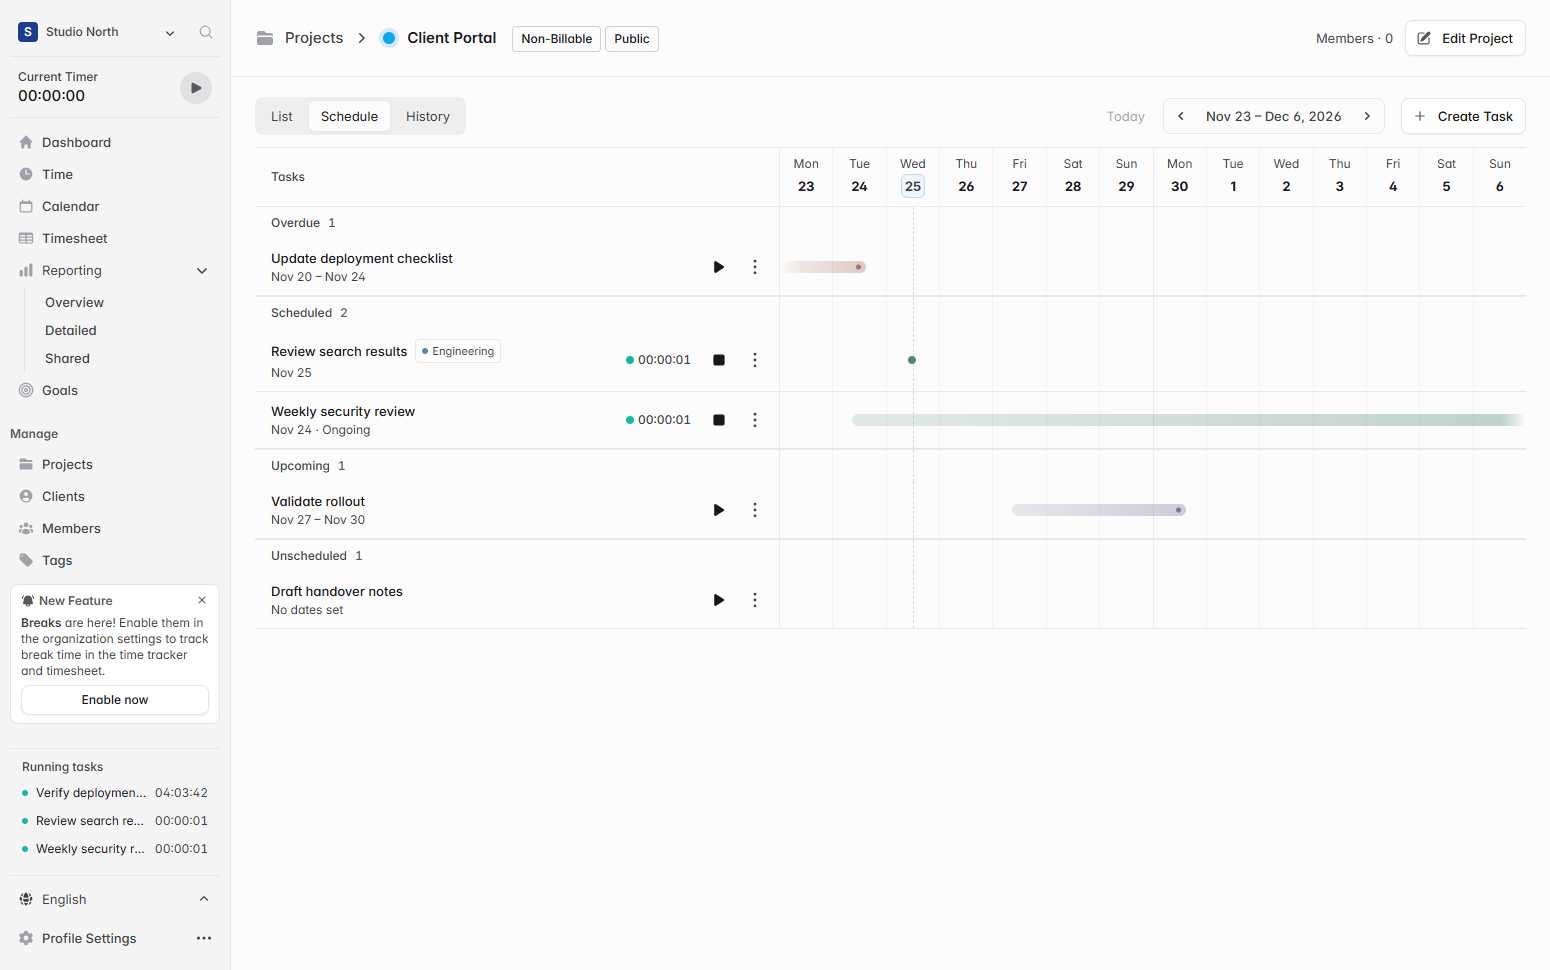
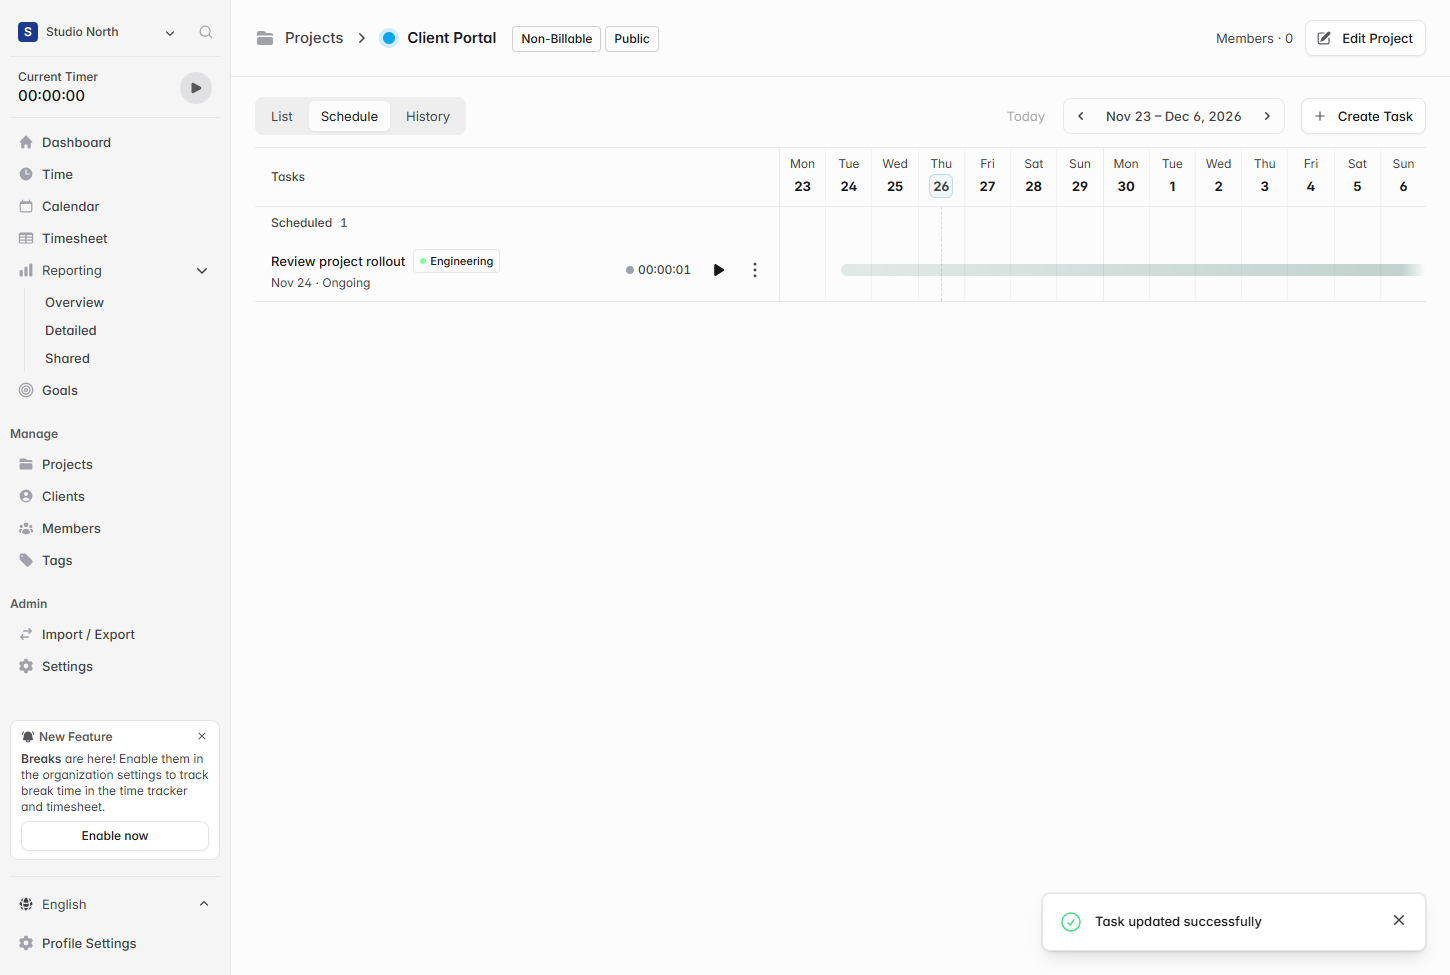
Refresh feature screenshots and PR description

diff --git a/README.md b/README.md
@@ -1,23 +1,28 @@
-# Refine the project schedule and task date controls
+# Refine the project schedule, task dates, and sidebar
 
 ## Why
 
-The project schedule split frequently used controls across two rows and repeated equivalent dates. Empty timer cells added visual noise, and the date picker used a browser checkbox to switch between two scheduling modes. The sidebar also placed running tasks too close to account controls.
+Project Schedule spread its controls across multiple rows, and the task form combined the two scheduling dates in a single field. Pale category colors made some labels hard to read. Running timers and account settings also needed clearer separation.
 
 ## Changes
 
-- Put the project view selector, date navigation, and Create Task in a compact toolbar. Show dates and task categories beside task names, and display elapsed time only for started timer sessions in Schedule.
-- Present Date range and Ongoing as explicit modes in the same date picker. Show a single date when the start and due dates coincide.
-- Give running tasks and account settings separate sidebar sections. Keep Profile Settings as a direct link and provide logout through the account menu.
+- Place the view selector, date navigation, and Create Task on one toolbar. Show compact schedule dates and place elapsed time beside task controls.
+- Give Start date and Due date their own calendar buttons. Reject reversed dates before saving and keep the Ongoing option in the due date picker.
+- Use the primary text color for category labels and preserve their colors as dots.
+- Separate running timers from the language and profile settings. Move Log Out and Feedback to the organization menu.
 
 ## Verification
 
-Built the frontend and checked the local Solidtime preview with sample data. Verified the 14-day Schedule, date navigation, task details, List and History entry points, keyboard date-mode selection, running timers, and the account menu. Checked that the project view fits a narrower browser window.
+Built the frontend and ran Vue type checking. In the local preview, created and edited a sample task, checked the stored dates, verified the invalid-range message and open-ended Schedule bar, and confirmed the organization menu actually signs out the preview account.
 
 ## Screenshots
 
-![Project Schedule with a compact toolbar and separated sidebar sections](.github/feature-images/refined-project-schedule-layout.png)
+![Project Schedule and separated sidebar sections](.github/feature-images/refined-project-schedule-layout.png)
 
-![Task date picker with Date range and Ongoing modes](.github/feature-images/refined-project-date-picker.png)
+![Create Task with independent Start date and Due date controls](.github/feature-images/project-task-separate-dates.png)
+
+![Readable task categories and sidebar separation](.github/feature-images/project-task-contrast-and-sidebar.png)
+
+![Log Out in the organization menu](.github/feature-images/project-task-organization-menu.png)
 
 [Upstream Solidtime README](https://github.com/solidtime-io/solidtime#readme)
